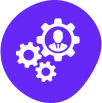
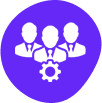
upd

Changed region(s): [[0.1471, 0.1748, 0.8529, 0.8155]]

diff --git a/index.html b/index.html
@@ -122,7 +122,7 @@
                 AIMS <br />
                 Net Cafe <br />Tours & Travels
               </h1>
-              <a href="#about" class="btn submit">Get Started</a>
+              <a href="#about" class="btn get-started">Get Started</a>
               <a href="#service" class="btn btn-outline-light ms-3">Our Work</a>
             </div>
           </div>
@@ -165,7 +165,7 @@
           <div class="col-lg-5 mx-3">
             <div class="row">
               <div class="col-12 about-page">
-                <img src="./src/assets/images/flight.png" alt="" />
+                <img src="./src/assets/images/story.png" alt="" />
                 <div>
                   <h5>Our Story</h5>
                   <p>
@@ -191,7 +191,7 @@
             </div>
             <div class="row">
               <div class="col-12 about-page mt-4">
-                <img src="./src/assets/images/form.png" alt="" />
+                <img src="./src/assets/images/customer.png" alt="" />
                 <div>
                   <h5>Customer Focus</h5>
                   <p>
@@ -336,15 +336,8 @@
       <div class="container">
         <div class="row">
           <div class="col-12 intro">
-            <h6>WORK</h6>
-            <h1>AIMS <br />Net Cafe . Tours & Travels</h1>
-            <p>
-              Welcome to our Net Cafe & Tours/Travel hub! Stay connected with
-              high-speed internet and enjoy a comfortable work or study
-              environment. Explore our exciting travel packages and let our
-              expert team take care of all your travel arrangements, making your
-              journey memorable and hassle-free.
-            </p>
+            <h6>Portfolio</h6>
+            <h1>AIMS <br />Net Cafe Tours & Travels</h1>
           </div>
         </div>
       </div>

diff --git a/src/styles/style.css b/src/styles/style.css
@@ -3,6 +3,7 @@
 @import url("https://fonts.googleapis.com/css2?family=Merriweather:wght@400;700&display=swap");
 @import url("https://fonts.googleapis.com/css2?family=Merriweather:wght@400;700&family=Roboto:wght@400&display=swap");
 @import url("https://fonts.googleapis.com/css2?family=Merriweather:wght@400&family=Noto+Serif&family=Roboto:wght@700&display=swap");
+@import url("https://fonts.googleapis.com/css2?family=Noto+Serif&display=swap");
 
 /* Default Settings */
 body {
@@ -98,7 +99,7 @@ span {
   color: #6528f7;
 }
 
-/* button- contact */
+/* button-contact */
 .submit {
   padding: 7px 20px;
   width: 100px;
@@ -149,6 +150,21 @@ span {
   .slide-2 {
     align-items: center;
   }
+}
+/* button-contact */
+.get-started {
+  padding: 7px 20px;
+  border: none;
+  font-weight: 500;
+  background-color: #6528f7;
+  color: #ffffff;
+  transition: 0.3s ease;
+  font-family: "Noto Serif", serif;
+  border-radius: 17px;
+}
+.get-started:hover {
+  background-color: #3e14a0;
+  color: #ffffffc0;
 }
 
 /* OWL carousel */
@@ -212,7 +228,6 @@ span {
 .intro h1 {
   margin-bottom: 10px;
   margin-top: 10px;
-  font-weight: 500;
 }
 .intro p {
   max-width: 500px;
@@ -235,6 +250,7 @@ span {
 }
 .servies-box h4 {
   margin-bottom: 20px;
+  font-family: "Noto Serif", serif;
 }
 .servies-box-enroll {
   display: block;
